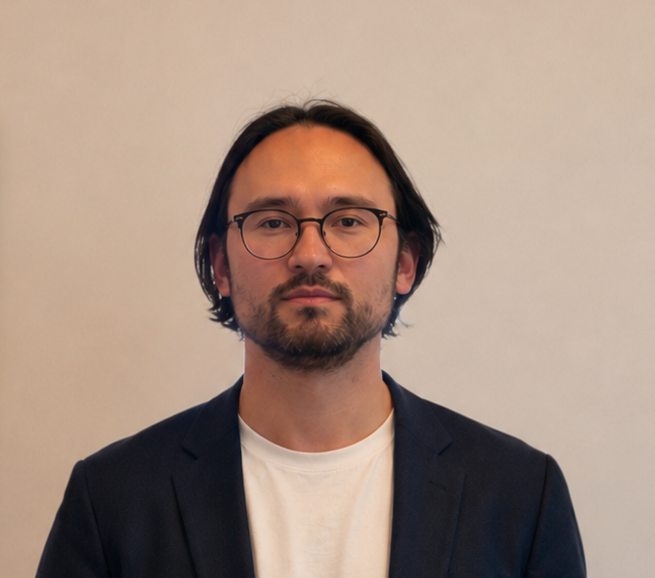
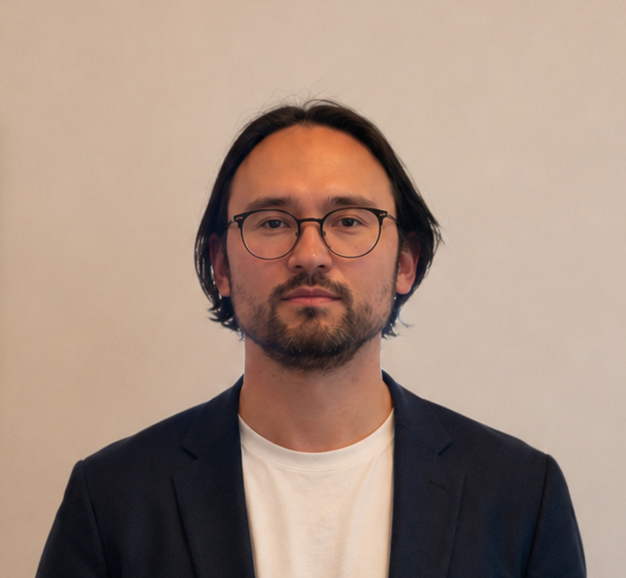
Update photo, larger in header

diff --git a/index.html b/index.html
@@ -30,7 +30,7 @@ a:focus-visible{outline:2px solid var(--ink);outline-offset:3px}
 
 header{padding:56px 0 0}
 .head-row{display:flex;justify-content:space-between;align-items:flex-start;gap:24px}
-.photo{width:108px;height:auto;border-radius:6px;flex-shrink:0}
+.photo{width:150px;height:auto;border-radius:6px;flex-shrink:0}
 h1{font-size:26px;font-weight:650;letter-spacing:-.01em}
 .role{color:var(--muted);margin-top:4px}
 .intro{margin-top:28px}
@@ -71,7 +71,7 @@ footer{margin:72px 0 40px;color:var(--muted);font-size:13.5px}
       <h1>Daniil Maklakov</h1>
       <p class="role">Backend developer — Python/FastAPI · TypeScript/Fastify · CRM &amp; API integrations</p>
     </div>
-    <img class="photo" src="photo.jpg" alt="Daniil Maklakov" width="320" height="282">
+    <img class="photo" src="photo.jpg" alt="Daniil Maklakov" width="450" height="415">
   </div>
   <p class="intro">
     I build the plumbing between products: API gateways, OAuth2 flows, webhook pipelines
